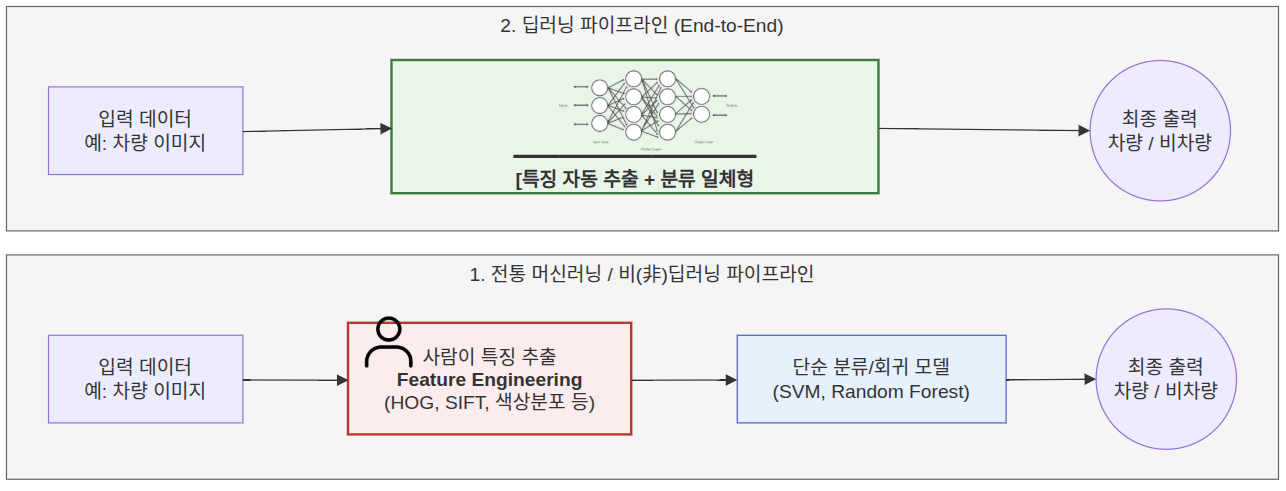
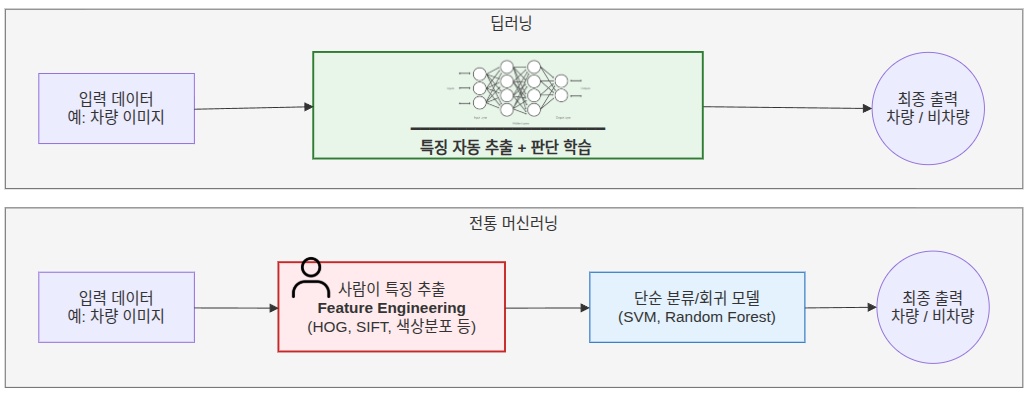
Update blog 2026-09-21 23:14:18

diff --git a/site/src/content/notes/Deep learning/easy-deep-learning-ch01.md b/site/src/content/notes/Deep learning/easy-deep-learning-ch01.md
@@ -74,7 +74,7 @@ featured: false
 
 특히 **딥러닝은 여러 층을 통해 단순한 특징을 복잡한 특징으로 단계적으로 조합하고, 판단 기준까지 하나의 학습 과정에서 함께 학습합니다.**
 
-![[Pasted image 20260921230811.png]]
+<img src="/images/notes/easy-deep-learning-ch01/ml-dl-comparison.png" alt="딥러닝은 깊은 신경망에서 특징 추출과 판단 기준을 함께 학습하고, 전통적인 머신러닝은 사람이 특징을 추출한 뒤 별도의 분류 모델이 판단 기준을 학습하는 이미지 분류 과정 비교" loading="lazy" />
 
 ## 2. 머신러닝의 학습 방식
 
